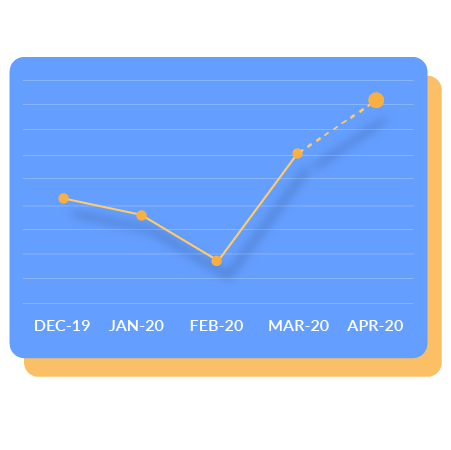
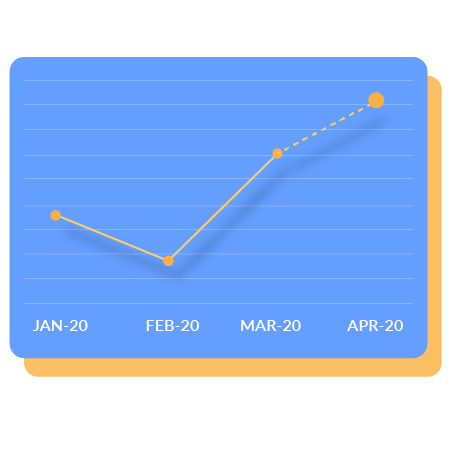
Updated for revisions
-Changed main image
-Modified chart
- updated text in features list

diff --git a/index.html b/index.html
@@ -63,7 +63,7 @@
                                 </div>
                         </div>
                         <div class="col-12 col-lg-6 order-first order-lg-last d-flex justify-content-center align-items-center">
-                            <img src="images/supply_eload.png" class="section-img mt-0 mb-0 mt-lg-2 mb-lg-4">
+                            <img src="images/buy_load.png" class="section-img mt-0 mb-0 mt-lg-2 mb-lg-4">
                         </div>
                     </div>
             </div>
@@ -105,7 +105,6 @@
                                     <img src="images/no_fee.png" class="card-img-top" loading="lazy" alt="...">
                                     <div class="card-body">
                                         <h5 class="card-title">No Integration Fee!</h5>
-                                        <p>We do not charge an integration fee</p>
                                     </div>
                                 </center>
                             </div>
@@ -114,7 +113,6 @@
                                     <img src="images/customer_service.png" class="card-img-top" loading="lazy" alt="...">
                                     <div class="card-body">
                                         <h5 class="card-title">24/7 Customer Service</h5>
-                                        <p>We provide in-house 24/7 customer service</p>
                                     </div>
                                 </center>
                             </div>
@@ -122,8 +120,8 @@
                                 <center>    
                                     <img src="images/programmer.png" class="card-img-top" loading="lazy" alt="...">
                                     <div class="card-body">
-                                        <h5 class="card-title">In-house IT Support</h5>
-                                        <p>We have an in-house team of programmers that maintains all our software and API connections.
+                                        <h5 class="card-title">Strong IT Team</h5>
+                                        <p>We have an in-house team of programmers that develop and maintain all our software and API connections.
                                             </p>
                                     </div>
                                 </center>
@@ -229,7 +227,7 @@
                     <img src="images/sales_chart.png" loading="lazy" style="width:100%; max-width:450px;">
                     </div>
                     <div class="col-12 col-lg-6 d-flex justify-content-center align-items-center order-first order-lg-last">
-                        <h3 class="text-center">E-load sales on mobile banking platforms <b>grew by more than 46%</b> during the COVID-19 lockdown.</h3>
+                        <h3 class="text-center">E-load sales on mobile banking platforms <b>will grow by more than 40%</b> during the COVID-19 lockdown.</h3>
                     </div>
                 </div>
             </div>

diff --git a/styles.css b/styles.css
@@ -32,7 +32,7 @@ h1, h2, h3, h4, h5, h6, .nav-link, p {
 
 @media only screen and (min-width: 320px) and (max-width: 990px){
     .section-img {
-        width:170px;
+        width:300px;
         height:auto;
       }
 
